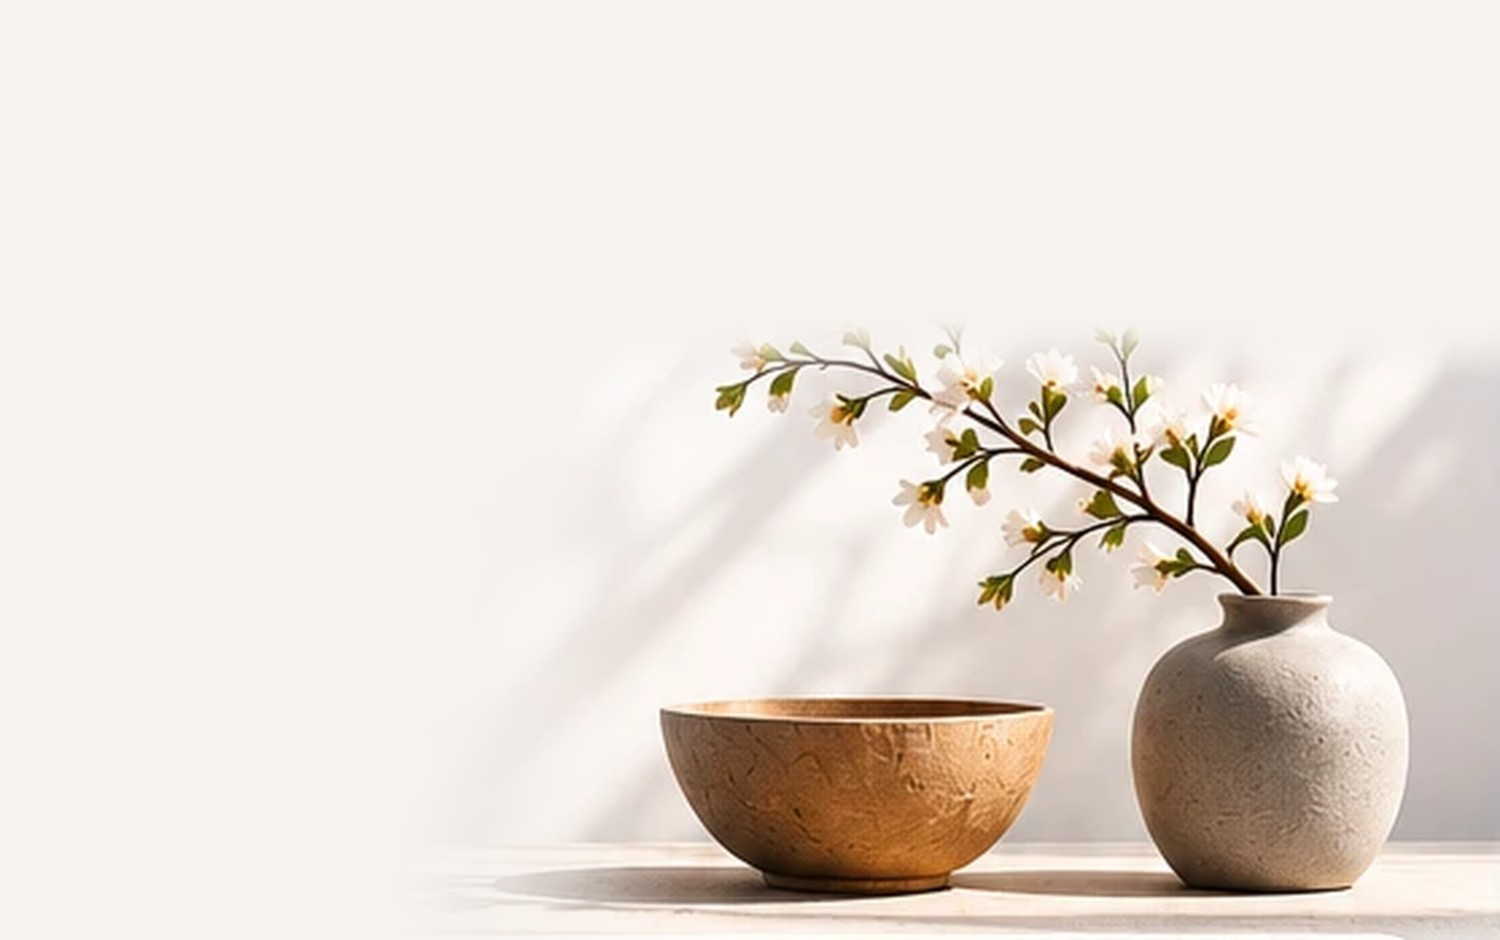
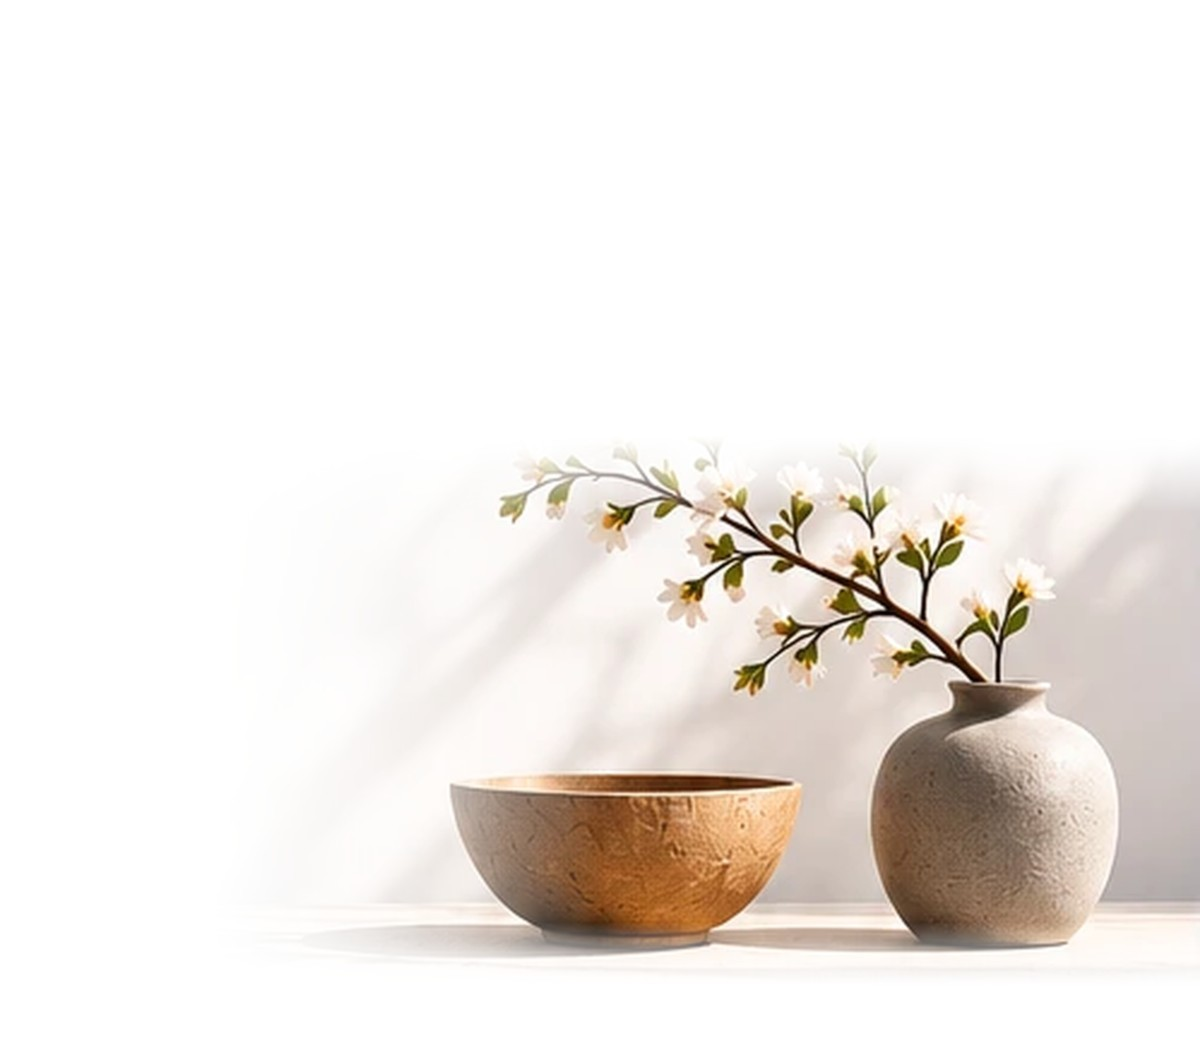
feat(mobile): fade Home hero photo into the page like the reference

diff --git a/apps/mobile/src/components/home/WelcomeHeader.tsx b/apps/mobile/src/components/home/WelcomeHeader.tsx
@@ -23,7 +23,12 @@ export function WelcomeHeader({ firstName }: WelcomeHeaderProps) {
   const name = firstName?.trim();
 
   return (
-    <View style={styles.wrap}>
+    <ImageBackground
+      source={heroImage}
+      resizeMode="cover"
+      style={styles.masthead}
+      accessibilityIgnoresInvertColors
+    >
       <View style={styles.brandRow}>
         <View style={styles.side} />
         <View
@@ -50,12 +55,7 @@ export function WelcomeHeader({ firstName }: WelcomeHeaderProps) {
         </View>
       </View>
 
-      <ImageBackground
-        source={heroImage}
-        resizeMode="cover"
-        style={styles.hero}
-        accessibilityIgnoresInvertColors
-      >
+      <View style={styles.hero}>
         <View style={styles.heroText}>
           <ThemedText variant="heading" color={home.bronze} style={styles.welcome}>
             {name ? `Welcome back, ${name}` : 'Welcome back'}
@@ -65,14 +65,19 @@ export function WelcomeHeader({ firstName }: WelcomeHeaderProps) {
           </ThemedText>
           <View style={styles.statementRule} />
         </View>
-      </ImageBackground>
-    </View>
+      </View>
+    </ImageBackground>
   );
 }
 
 const styles = StyleSheet.create({
-  wrap: {
-    marginBottom: spacing.lg,
+  // One composition: the logo, the welcome text and the photograph share a single image whose left, top
+  // and bottom edges fade into the white page, so there is no visible frame.
+  masthead: {
+    marginHorizontal: -spacing.lg,
+    paddingHorizontal: spacing.lg,
+    marginBottom: spacing.md,
+    minHeight: 330,
   },
   brandRow: {
     flexDirection: 'row',
@@ -114,19 +119,14 @@ const styles = StyleSheet.create({
   // The photograph fills the whole hero band edge to edge; its left side is a pale wall, so the
   // navy text sits directly on it.
   hero: {
-    marginHorizontal: -spacing.lg,
-    height: 250,
-    overflow: 'hidden',
-    justifyContent: 'center',
-    backgroundColor: '#EFEDEA',
+    paddingTop: spacing.sm,
   },
   heroText: {
-    width: '52%',
-    paddingLeft: spacing.lg,
+    width: '47%',
   },
   welcome: {
     fontStyle: 'italic',
-    fontSize: 17,
+    fontSize: 15,
     marginBottom: spacing.sm,
   },
   statement: {
